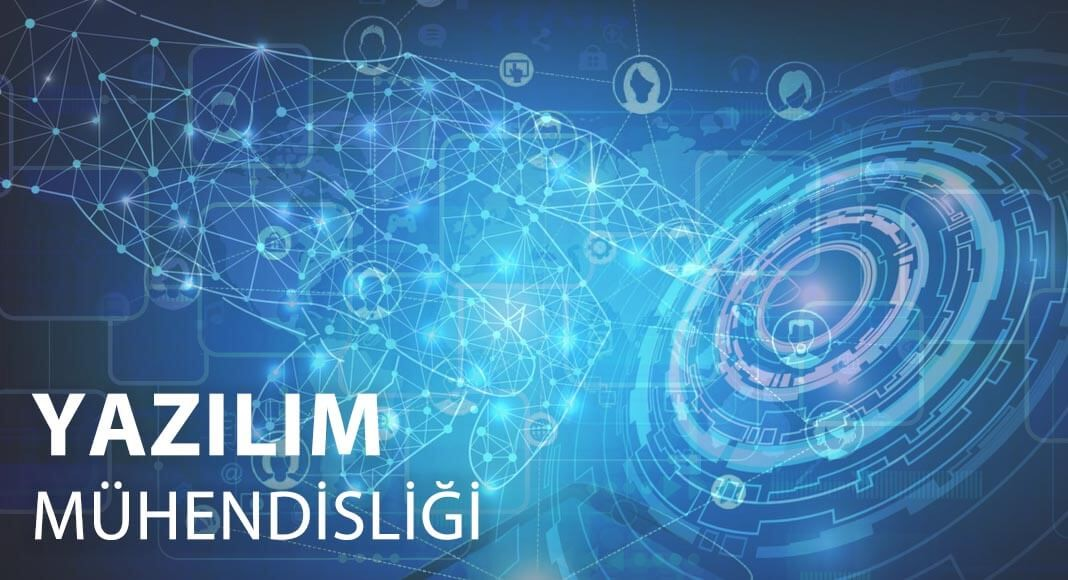
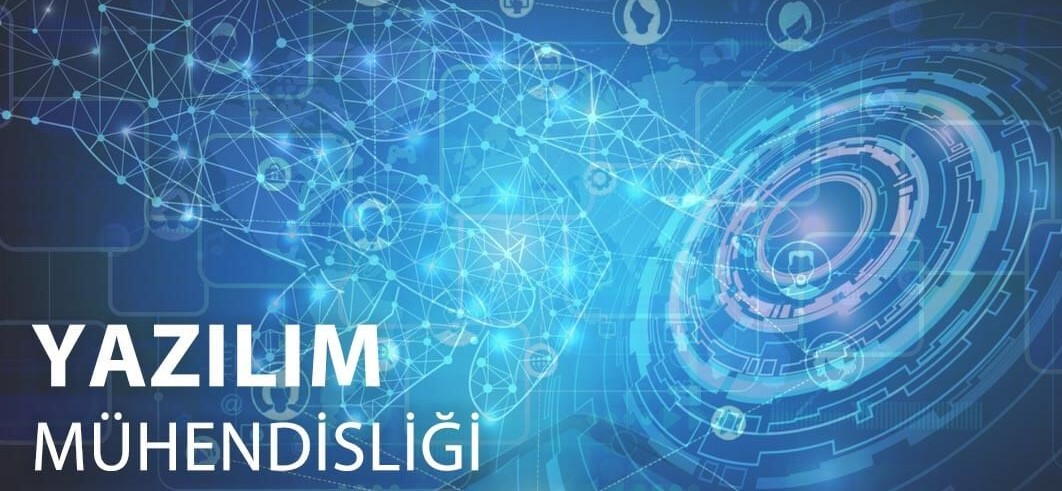
son updates

diff --git a/index.html b/index.html
@@ -97,9 +97,9 @@
                   <img
                     style="max-width: 100%; height: auto"
                     class="img-responsive"
-                    src="images/headline.jpg"
+                    src="images/Inönü_üniversitesi.jpg"
                     width="460px"
-                    height="300px"
+                    height="200px"
                   />
                 </div>
       

diff --git a/hakkimda.css b/hakkimda.css
@@ -63,8 +63,7 @@
     font-family: Arial, Helvetica, sans-serif;
     font-weight: bolder;
     font-size: 1.2vw;
-    width: 8vw;
-    height: 3.5vw;
+    padding: 1vw ;
     transition: background-color, border-color, 40ms;
   }
 
